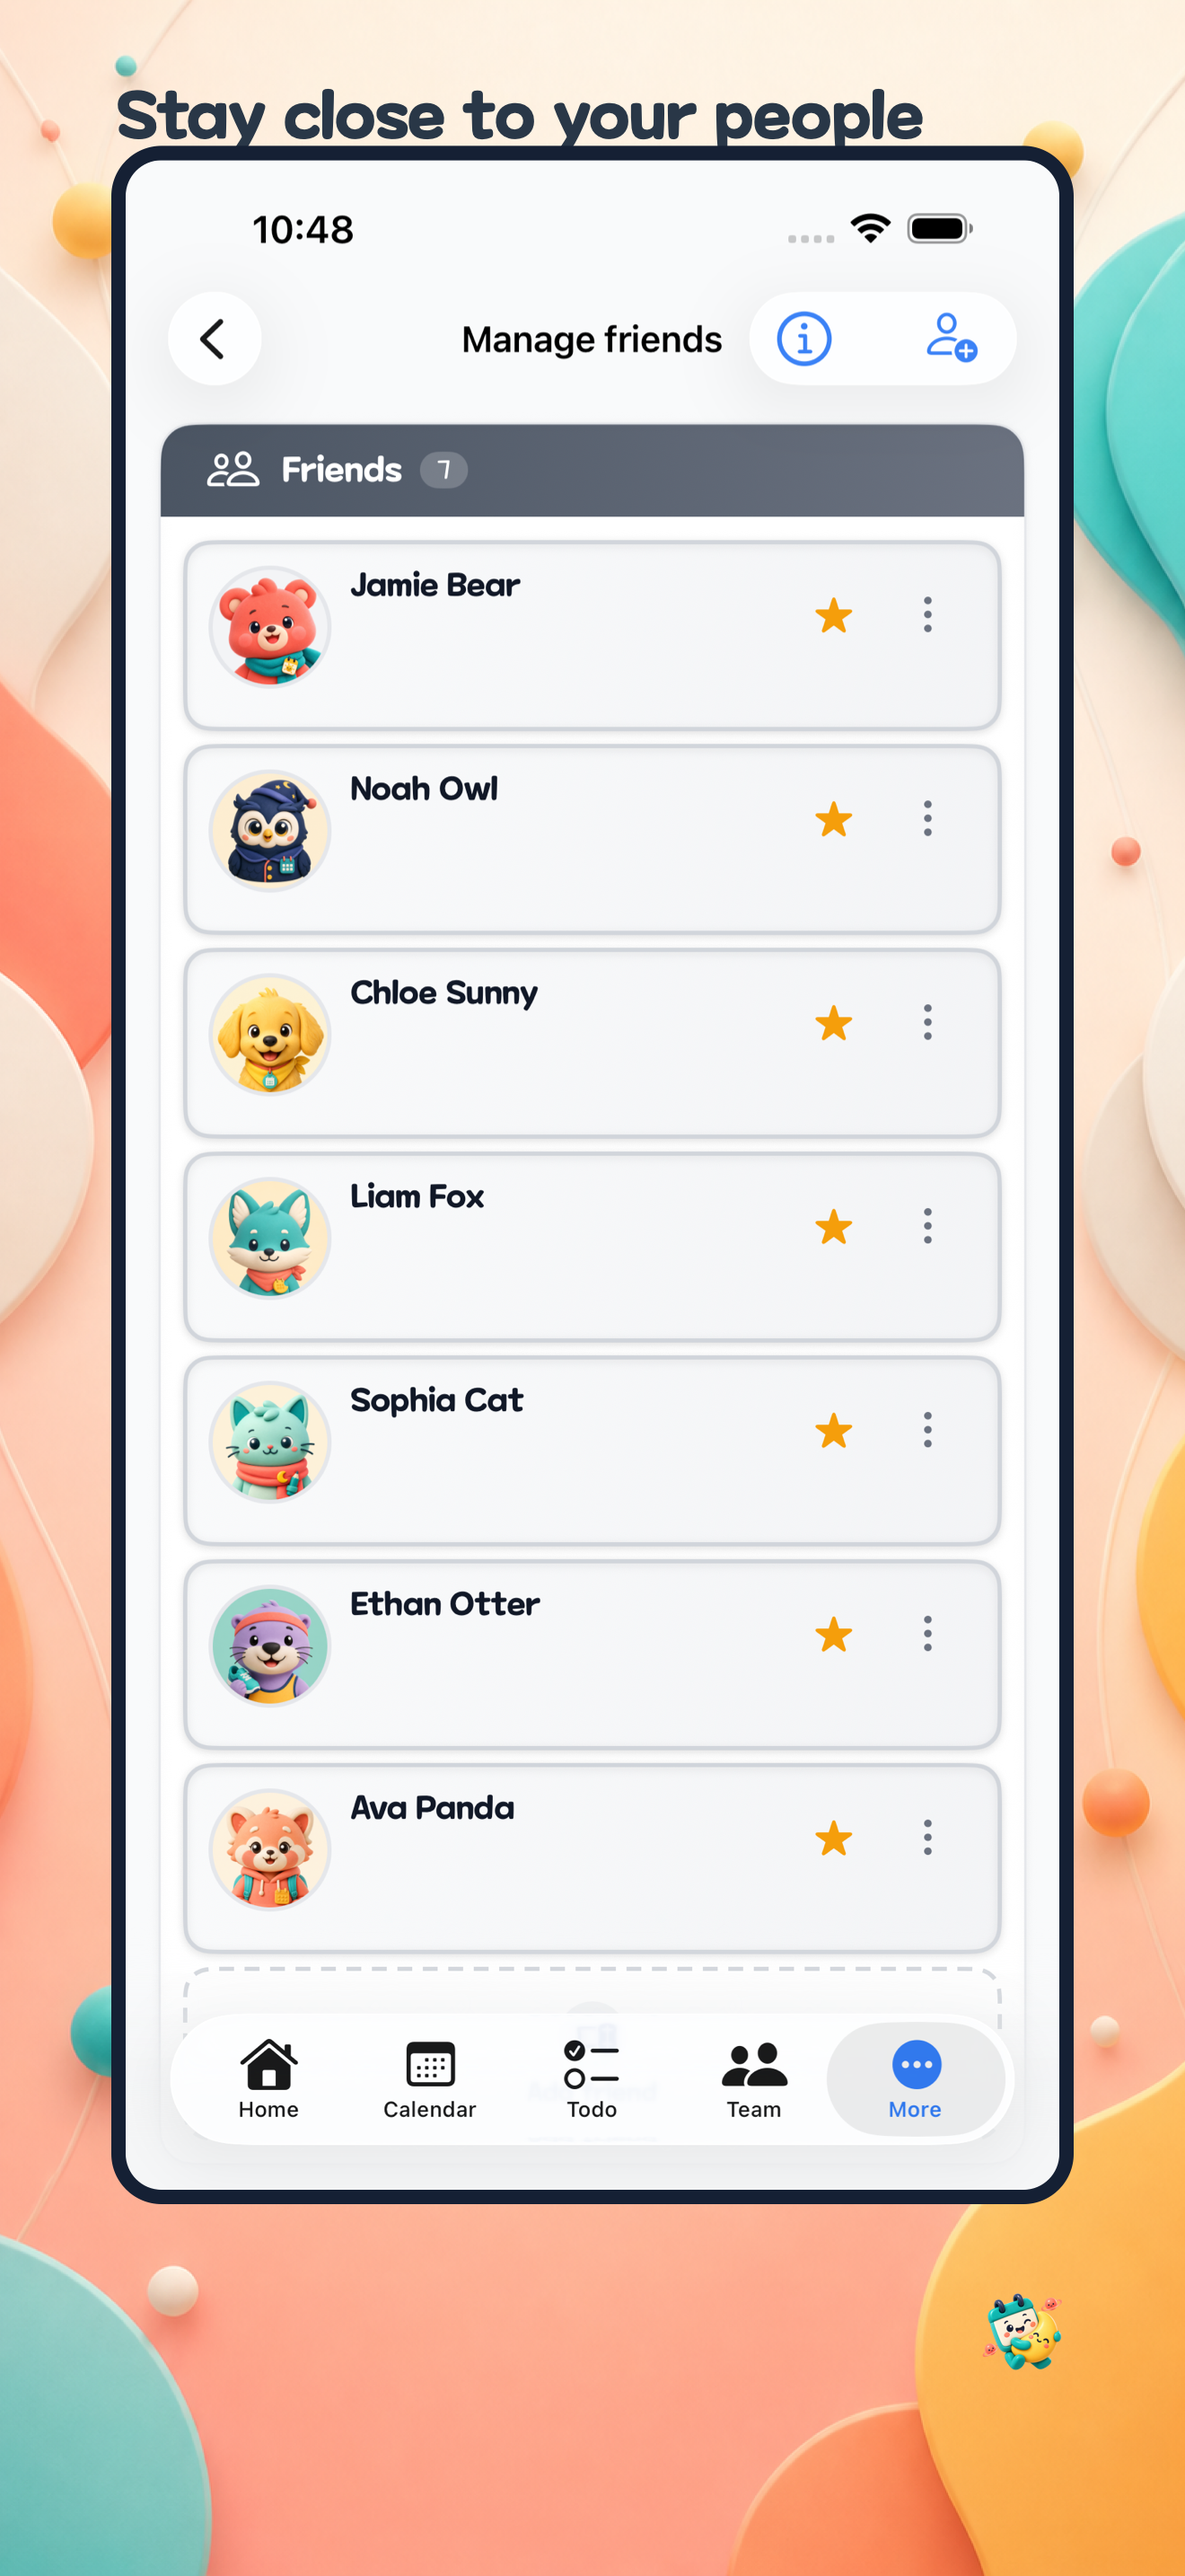
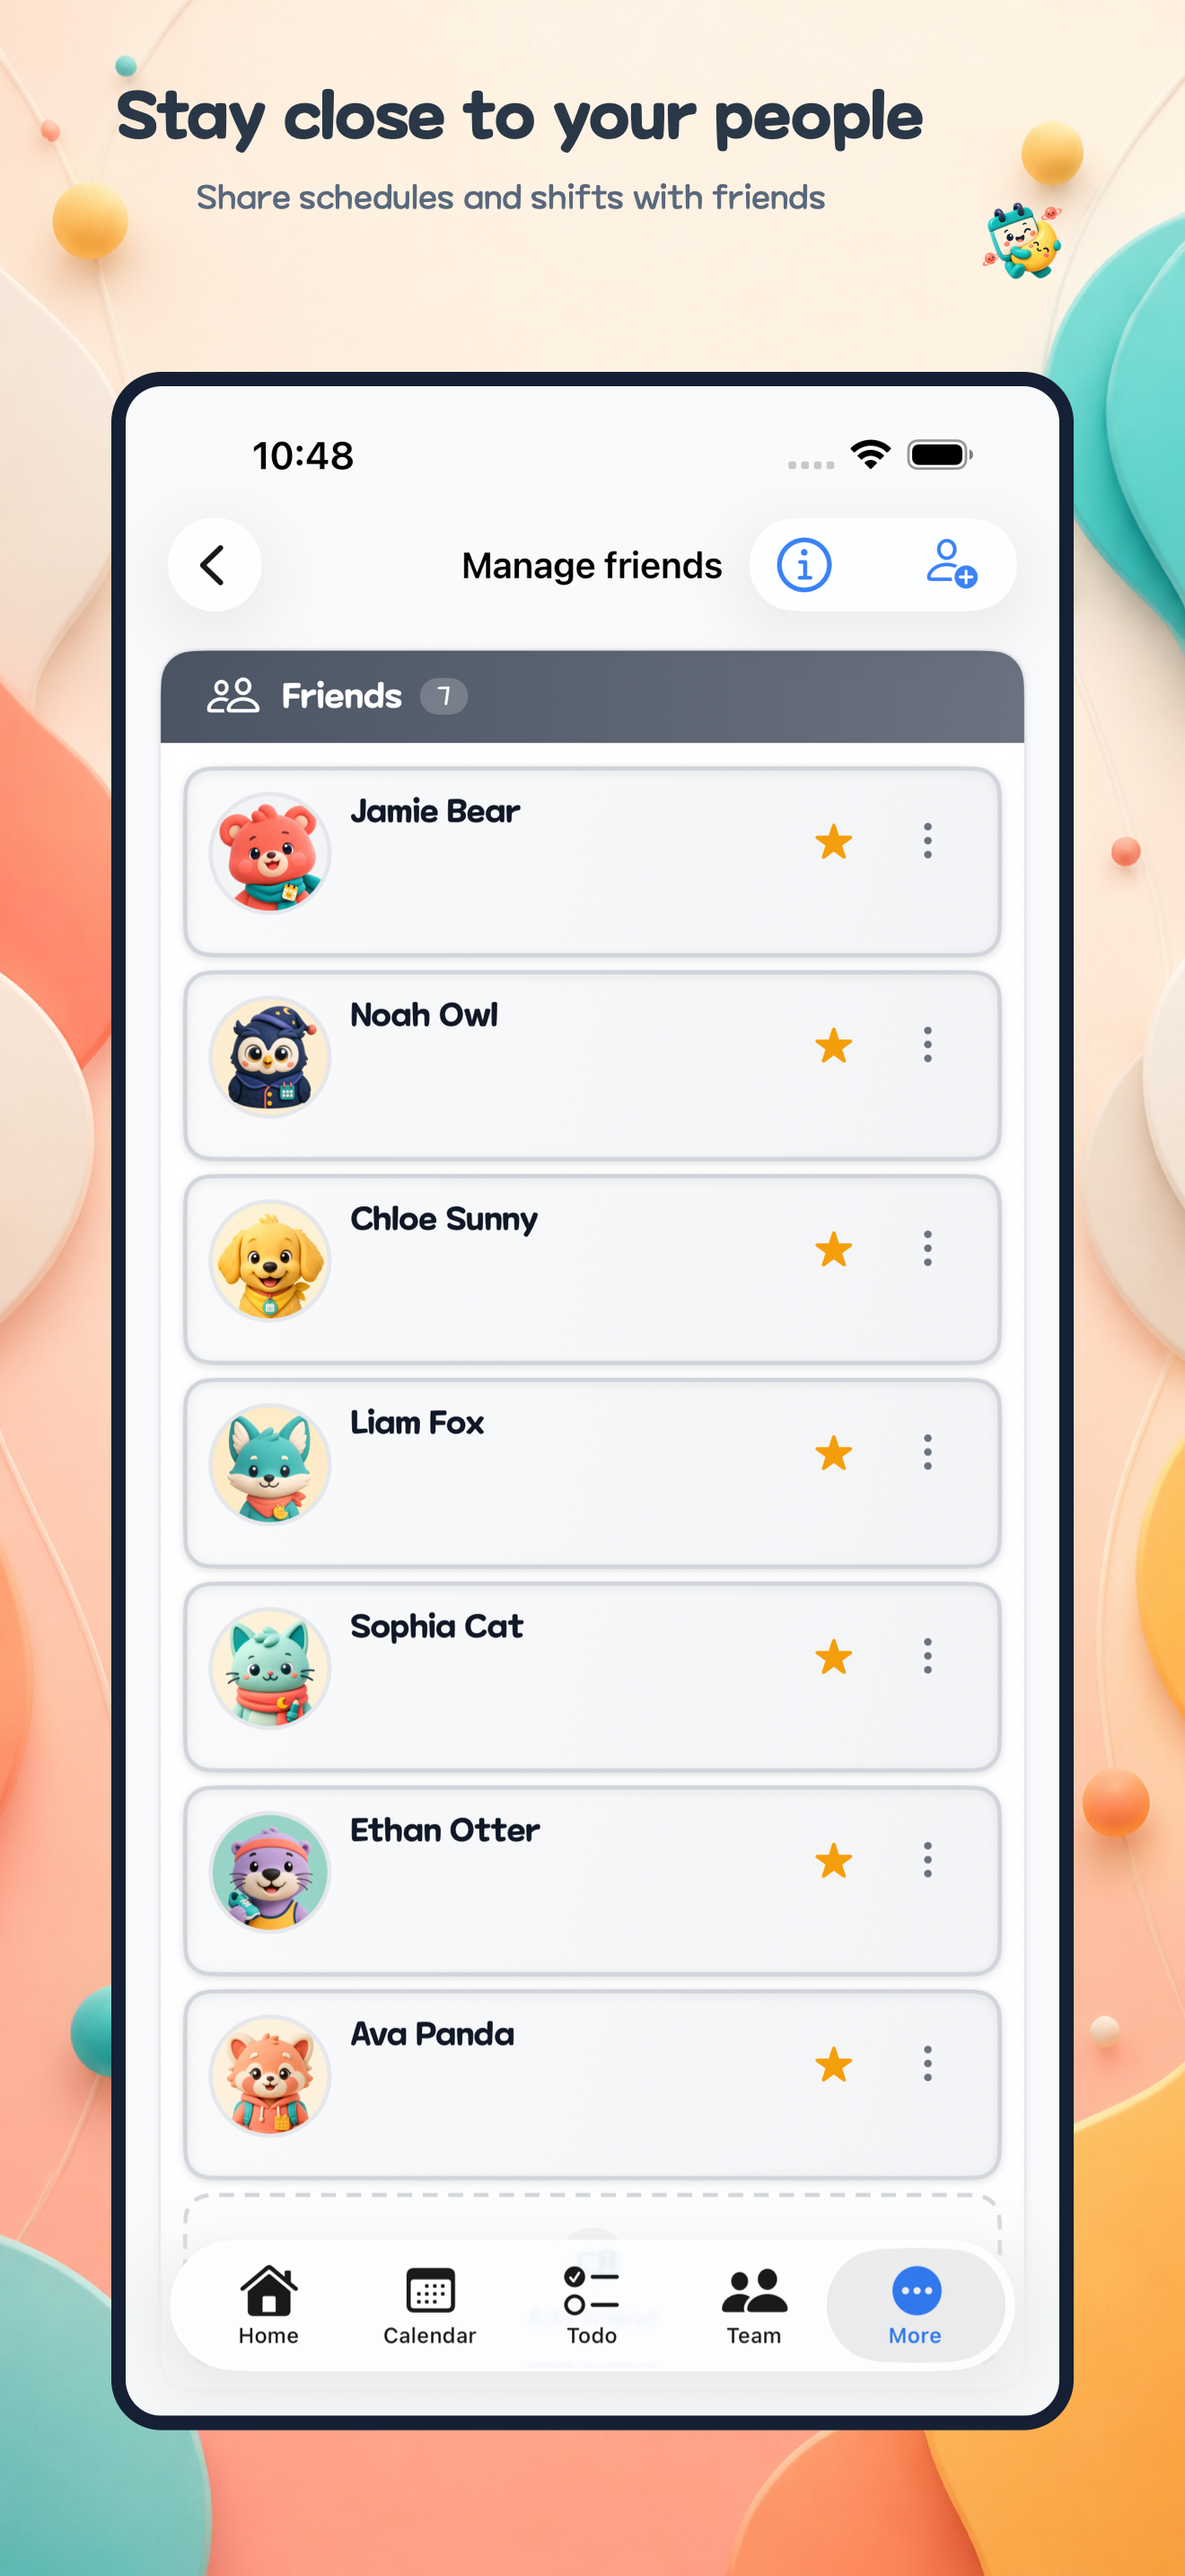
fix: improve App Store screenshot layout

Changed region(s): [[0.0932, 0.031, 0.9318, 0.962]]

diff --git a/scripts/compose_app_store_screenshots.swift b/scripts/compose_app_store_screenshots.swift
@@ -24,6 +24,8 @@ private struct OutputSpec: Decodable {
 private struct FontSpec: Decodable {
     let path: String
     let name: String
+    let subheadlinePath: String?
+    let subheadlineName: String?
     let headlineSize: Double
     let subheadlineSize: Double?
     let color: String
@@ -141,6 +143,17 @@ private func cgRect(_ spec: RectSpec) -> CGRect {
     CGRect(x: spec.x, y: spec.y, width: spec.width, height: spec.height)
 }
 
+/// Converts the manifest's top-left coordinate space into Core Graphics'
+/// bottom-left drawing space without changing the declared size.
+private func drawingRect(_ rect: CGRect, canvasHeight: CGFloat) -> CGRect {
+    CGRect(
+        x: rect.minX,
+        y: canvasHeight - rect.maxY,
+        width: rect.width,
+        height: rect.height
+    )
+}
+
 private func rectIsFinite(_ rect: CGRect) -> Bool {
     rect.origin.x.isFinite && rect.origin.y.isFinite && rect.width.isFinite && rect.height.isFinite
         && rect.width > 0 && rect.height > 0
@@ -167,20 +180,19 @@ private func color(_ hex: String, alpha: CGFloat = 1) throws -> CGColor {
     return NSColor(calibratedRed: red, green: green, blue: blue, alpha: embeddedAlpha * alpha).cgColor
 }
 
-private func registerFont(_ spec: FontSpec, manifestDirectory: URL) throws -> NSFont {
-    let fontURL = resolve(spec.path, relativeTo: manifestDirectory)
+private func registerFont(path: String, name: String, size: CGFloat, manifestDirectory: URL) throws {
+    let fontURL = resolve(path, relativeTo: manifestDirectory)
     try requireFile(fontURL)
     if !CTFontManagerRegisterFontsForURL(fontURL as CFURL, .process, nil) {
         // A previously registered process font returns false. It is still safe
         // to continue if the requested family can be resolved below.
-        guard NSFont(name: spec.name, size: spec.headlineSize) != nil else {
+        guard NSFont(name: name, size: size) != nil else {
             throw ComposeError.invalidManifest("could not register font \(fontURL.path)")
         }
     }
-    guard let font = NSFont(name: spec.name, size: spec.headlineSize) else {
-        throw ComposeError.invalidManifest("font \(spec.name) is not available after registering \(fontURL.path)")
+    guard NSFont(name: name, size: size) != nil else {
+        throw ComposeError.invalidManifest("font \(name) is not available after registering \(fontURL.path)")
     }
-    return font
 }
 
 private func drawImage(
@@ -216,9 +228,10 @@ private func drawDeviceFrame(
     spec: DeviceFrameSpec,
     bezelColor: CGColor,
     shadowColor: CGColor?,
+    canvasHeight: CGFloat,
     on context: CGContext
 ) {
-    let contentRect = cgRect(spec.frame)
+    let contentRect = drawingRect(cgRect(spec.frame), canvasHeight: canvasHeight)
     let bezel = CGFloat(spec.bezelWidth)
     let outerRect = contentRect.insetBy(dx: -bezel, dy: -bezel)
     let contentRadius = CGFloat(spec.cornerRadius)
@@ -239,7 +252,7 @@ private func drawDeviceFrame(
     context.saveGState()
     if let shadowColor {
         context.setShadow(
-            offset: CGSize(width: 0, height: CGFloat(spec.shadowOffsetY ?? 14)),
+            offset: CGSize(width: 0, height: -CGFloat(spec.shadowOffsetY ?? 14)),
             blur: CGFloat(spec.shadowBlur ?? 30),
             color: shadowColor
         )
@@ -328,7 +341,24 @@ private func compose(
     }
 
     let manifestDirectory = manifestURL.deletingLastPathComponent()
-    _ = try registerFont(manifest.font, manifestDirectory: manifestDirectory)
+    try registerFont(
+        path: manifest.font.path,
+        name: manifest.font.name,
+        size: manifest.font.headlineSize,
+        manifestDirectory: manifestDirectory
+    )
+    guard (manifest.font.subheadlinePath == nil) == (manifest.font.subheadlineName == nil) else {
+        throw ComposeError.invalidManifest("subheadlinePath and subheadlineName must be provided together")
+    }
+    if let path = manifest.font.subheadlinePath, let name = manifest.font.subheadlineName {
+        try registerFont(
+            path: path,
+            name: name,
+            size: manifest.font.subheadlineSize ?? 36,
+            manifestDirectory: manifestDirectory
+        )
+    }
+    let subheadlineFontName = manifest.font.subheadlineName ?? manifest.font.name
     let canvasRect = CGRect(x: 0, y: 0, width: requiredWidth, height: requiredHeight)
     let baseColor = try color(manifest.output.background ?? "#FFF9F3")
     let headlineColor = try color(manifest.font.color)
@@ -404,13 +434,18 @@ private func compose(
                 throw ComposeError.invalidSafeArea("sticker \(sticker.path) must be entirely inside safeArea")
             }
             let stickerURL = resolve(sticker.path, relativeTo: manifestDirectory)
-            drawImage(try loadImage(stickerURL), in: frame, interpolation: .high, on: context)
+            drawImage(
+                try loadImage(stickerURL),
+                in: drawingRect(frame, canvasHeight: CGFloat(requiredHeight)),
+                interpolation: .high,
+                on: context
+            )
         }
         if let headline = screenshot.headline, let frame = headlineFrame {
             try drawText(headline, in: frame, fontName: manifest.font.name, size: manifest.font.headlineSize, color: headlineColor, canvasHeight: CGFloat(requiredHeight), on: context)
         }
         if let subheadline = screenshot.subheadline, let frame = subheadlineFrame {
-            try drawText(subheadline, in: frame, fontName: manifest.font.name, size: CGFloat(manifest.font.subheadlineSize ?? 36), color: subheadlineColor, canvasHeight: CGFloat(requiredHeight), on: context)
+            try drawText(subheadline, in: frame, fontName: subheadlineFontName, size: CGFloat(manifest.font.subheadlineSize ?? 36), color: subheadlineColor, canvasHeight: CGFloat(requiredHeight), on: context)
         }
         let shadowColor: CGColor?
         if let shadowHex = screenshot.deviceFrame.shadowColor {
@@ -423,6 +458,7 @@ private func compose(
             spec: screenshot.deviceFrame,
             bezelColor: try color(screenshot.deviceFrame.bezelColor),
             shadowColor: shadowColor,
+            canvasHeight: CGFloat(requiredHeight),
             on: context
         )
 

diff --git a/scripts/test_compose_app_store_screenshots.swift b/scripts/test_compose_app_store_screenshots.swift
@@ -88,10 +88,10 @@ private func pixel(_ image: RGBAImage, x: Int, y: Int) -> (UInt8, UInt8, UInt8, 
     return image.pixel(x: x, y: y)
 }
 
-// Manifest rectangles use a top-left origin; CGImage provider rows use a
-// bottom-left origin for the CGContext-backed fixture.
+// CGImage provider rows are exposed in display order, so this helper uses the
+// same top-left coordinates as the manifest contract.
 private func topPixel(_ image: RGBAImage, x: Int, y: Int) -> (UInt8, UInt8, UInt8, UInt8) {
-    pixel(image, x: x, y: height - 1 - y)
+    pixel(image, x: x, y: y)
 }
 
 let repo = URL(fileURLWithPath: FileManager.default.currentDirectoryPath)
@@ -111,6 +111,8 @@ try write([
     "font": [
         "path": repo.appendingPathComponent("ios/Dutypark/Resources/Fonts/Maplestory OTF Bold.otf").path,
         "name": "MaplestoryOTFBold",
+        "subheadlinePath": repo.appendingPathComponent("ios/Dutypark/Resources/Fonts/Maplestory OTF Light.otf").path,
+        "subheadlineName": "MaplestoryOTFLight",
         "headlineSize": 72,
         "subheadlineSize": 36,
         "color": "#1F2937"
@@ -131,7 +133,9 @@ try write([
         ],
         "background": background.path,
         "headline": "Fixture headline",
-        "headlineFrame": ["x": 130, "y": 110, "width": 1060, "height": 120]
+        "headlineFrame": ["x": 130, "y": 90, "width": 1060, "height": 90],
+        "subheadline": "Fixture subheadline",
+        "subheadlineFrame": ["x": 130, "y": 190, "width": 1060, "height": 60]
     ]]
 ], to: manifest)
 
@@ -236,4 +240,42 @@ ratioProcess.waitUntilExit()
 let ratioMessage = String(data: ratioErrors.fileHandleForReading.readDataToEndOfFile(), encoding: .utf8) ?? ""
 check(ratioProcess.terminationStatus != 0 && ratioMessage.contains("aspect ratio"), "non-uniform frame was not rejected")
 
-print("PASS: App Store screenshot compositor dimensions, alpha, uniform frame, safe-area text, and asset validation")
+let partialSubheadlineFontManifest = root.appendingPathComponent("partial-subheadline-font.json")
+try write([
+    "version": 2,
+    "output": ["width": width, "height": height, "opaque": true],
+    "font": [
+        "path": repo.appendingPathComponent("ios/Dutypark/Resources/Fonts/Maplestory OTF Bold.otf").path,
+        "name": "MaplestoryOTFBold",
+        "subheadlinePath": repo.appendingPathComponent("ios/Dutypark/Resources/Fonts/Maplestory OTF Light.otf").path,
+        "headlineSize": 72,
+        "color": "#1F2937"
+    ],
+    "screenshots": [[
+        "id": "partial-subheadline-font",
+        "raw": raw.path,
+        "output": root.appendingPathComponent("partial-subheadline-font-output.png").path,
+        "safeArea": ["x": 100, "y": 70, "width": 1120, "height": 240],
+        "deviceFrame": [
+            "frame": ["x": 140, "y": 430, "width": 1040, "height": 2259.64],
+            "cornerRadius": 40,
+            "bezelWidth": 16,
+            "bezelColor": "#111827"
+        ]
+    ]]
+], to: partialSubheadlineFontManifest)
+let partialSubheadlineFontProcess = Process()
+partialSubheadlineFontProcess.executableURL = URL(fileURLWithPath: "/bin/zsh")
+partialSubheadlineFontProcess.arguments = ["-lc", "scripts/compose-app-store-screenshots.sh \"\(partialSubheadlineFontManifest.path)\""]
+partialSubheadlineFontProcess.currentDirectoryURL = repo
+let partialSubheadlineFontErrors = Pipe()
+partialSubheadlineFontProcess.standardError = partialSubheadlineFontErrors
+try partialSubheadlineFontProcess.run()
+partialSubheadlineFontProcess.waitUntilExit()
+let partialSubheadlineFontMessage = String(data: partialSubheadlineFontErrors.fileHandleForReading.readDataToEndOfFile(), encoding: .utf8) ?? ""
+check(
+    partialSubheadlineFontProcess.terminationStatus != 0 && partialSubheadlineFontMessage.contains("subheadlinePath and subheadlineName must be provided together"),
+    "partial subheadline font configuration was not rejected"
+)
+
+print("PASS: App Store screenshot compositor dimensions, alpha, top-left layout, font hierarchy, uniform frame, safe-area text, and asset validation")

diff --git a/docs/app-store/README.md b/docs/app-store/README.md
@@ -56,6 +56,10 @@ Headlines and generated decorations may only be placed inside a
 `safeArea` that does not overlap the device frame. A text or sticker frame that
 falls outside that area is rejected. Referenced artwork is required: a missing
 file fails the command instead of silently producing an incomplete submission.
+All manifest rectangles use top-left coordinates, matching design-tool and
+image-preview conventions. The current set uses Maplestory OTF Bold for concise
+feature headlines and Maplestory OTF Light for supporting copy, with a clear
+gap before the framed app capture.
 
 The output is always an opaque 1320x2868 PNG with no alpha channel, suitable for
 the iPhone 6.9-inch App Store slot. Keep the unmodified captures in `raw/` and
